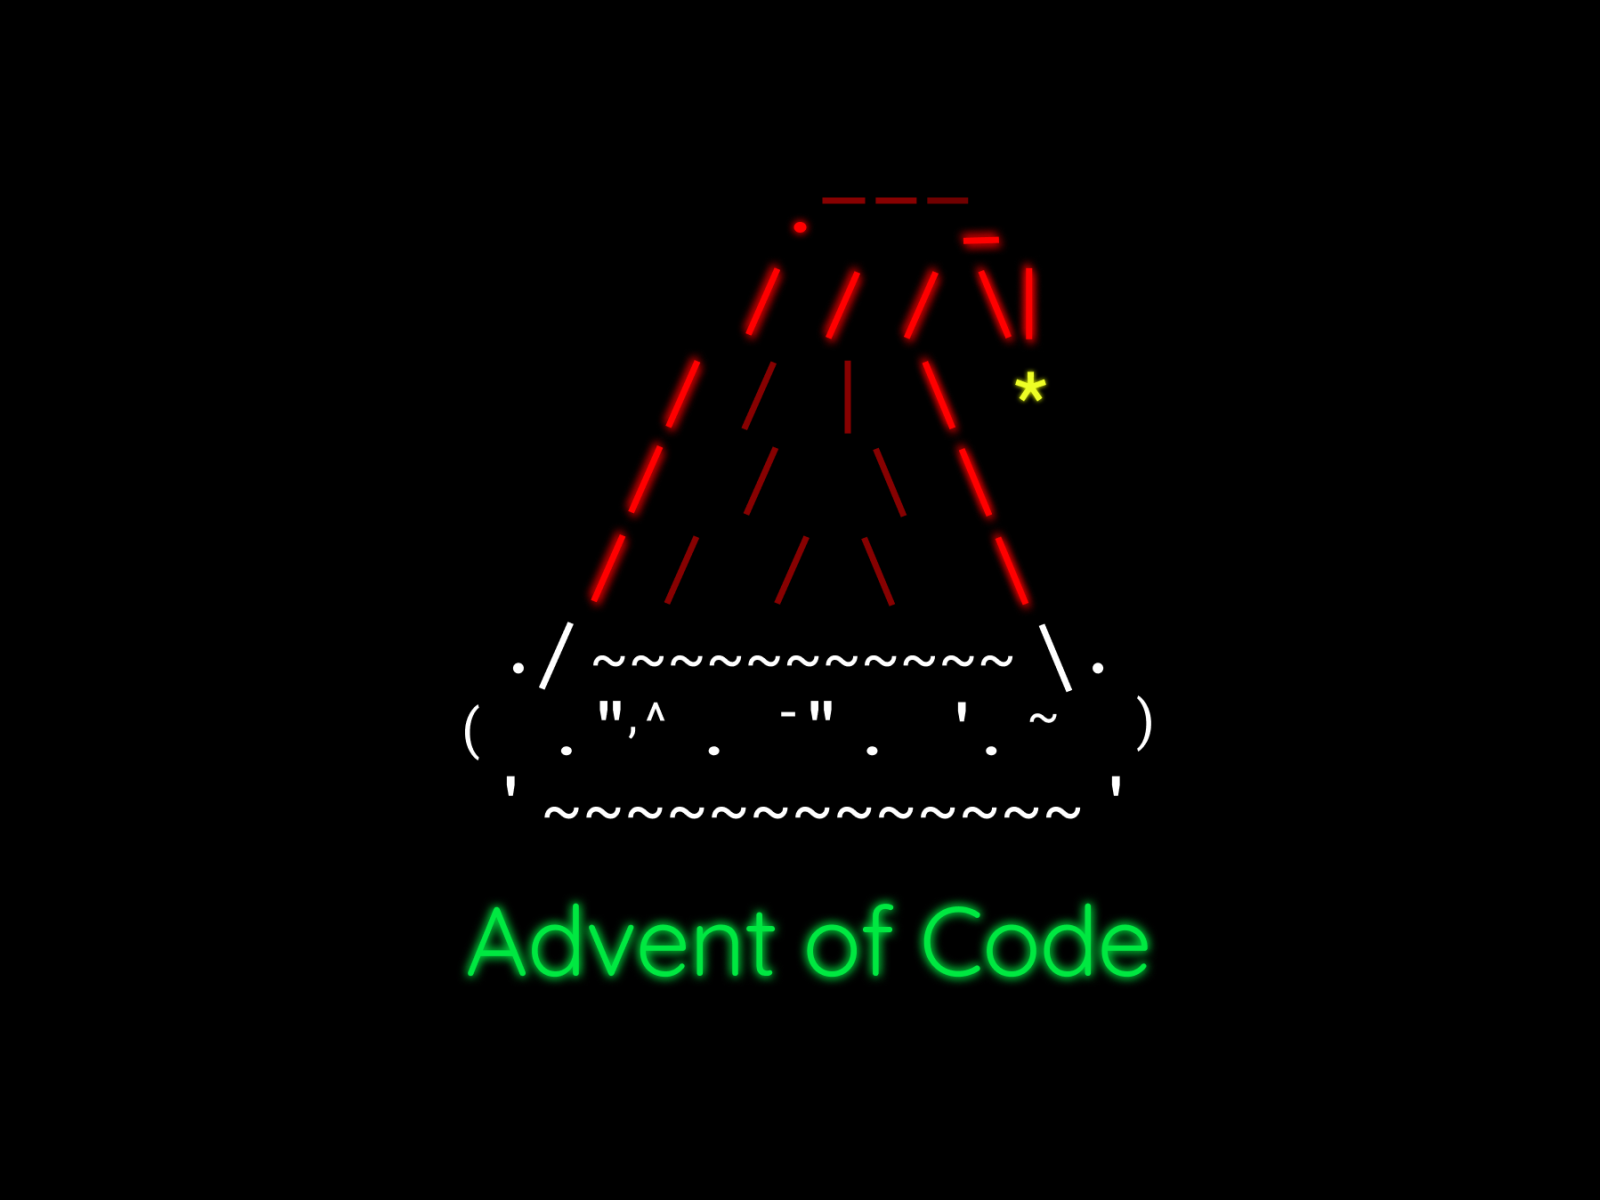
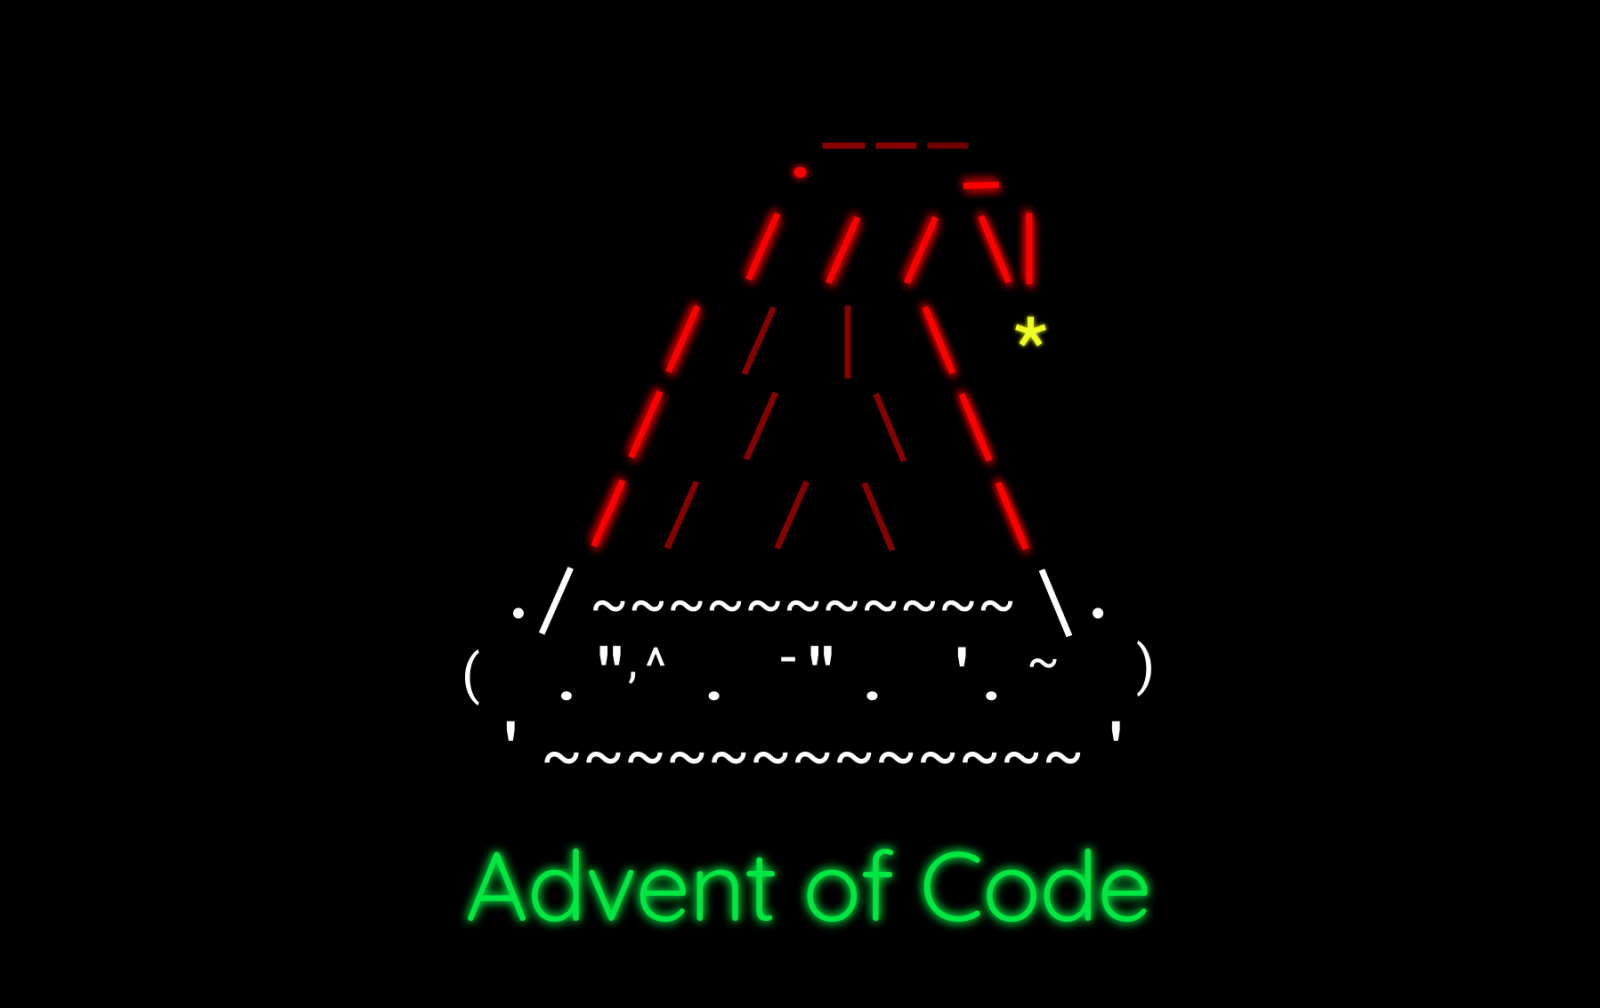
Fixed AoC2022 image proportions and updated Resume image

diff --git a/src/services/projectsService.ts b/src/services/projectsService.ts
@@ -46,7 +46,7 @@ const projects: Array<projectType> = [
         id: "Resume",
         pushed_at: "",
         name: "Resume",
-        image: require("@/assets/resume.jpg"),
+        image: require("@/assets/resume.png"),
         repo: "https://github.com/mezdelex/Resume",
         app: "https://www.mezdelex.com",
         description:
